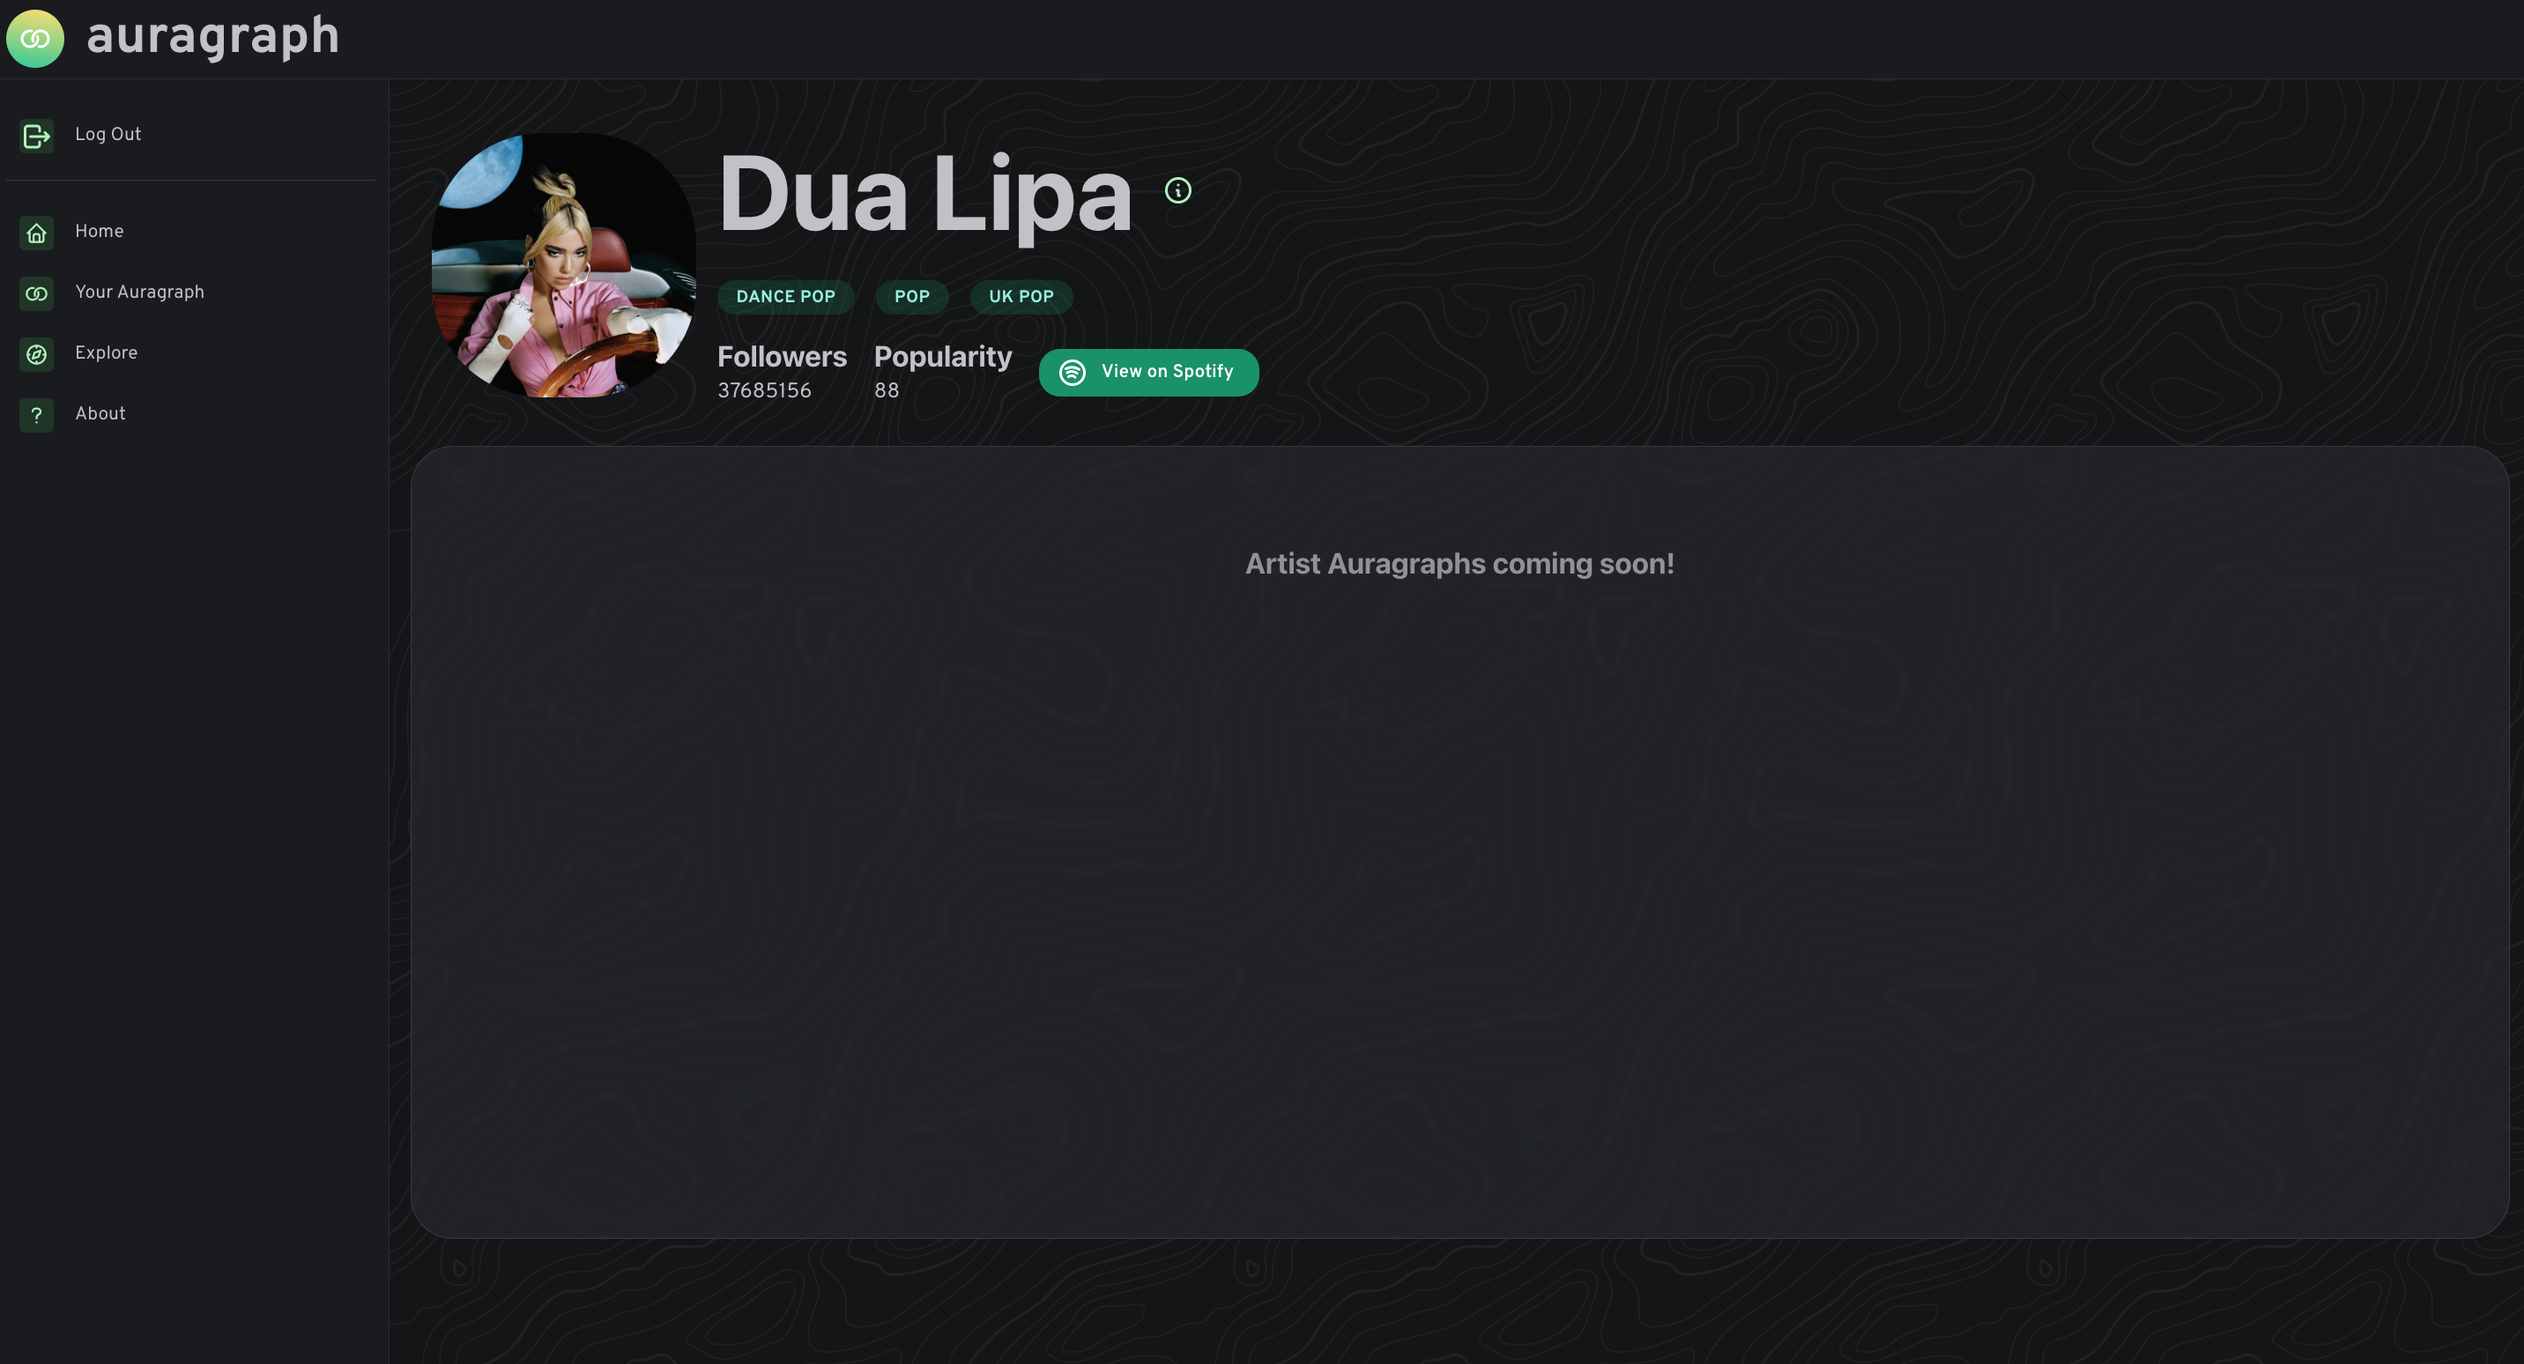
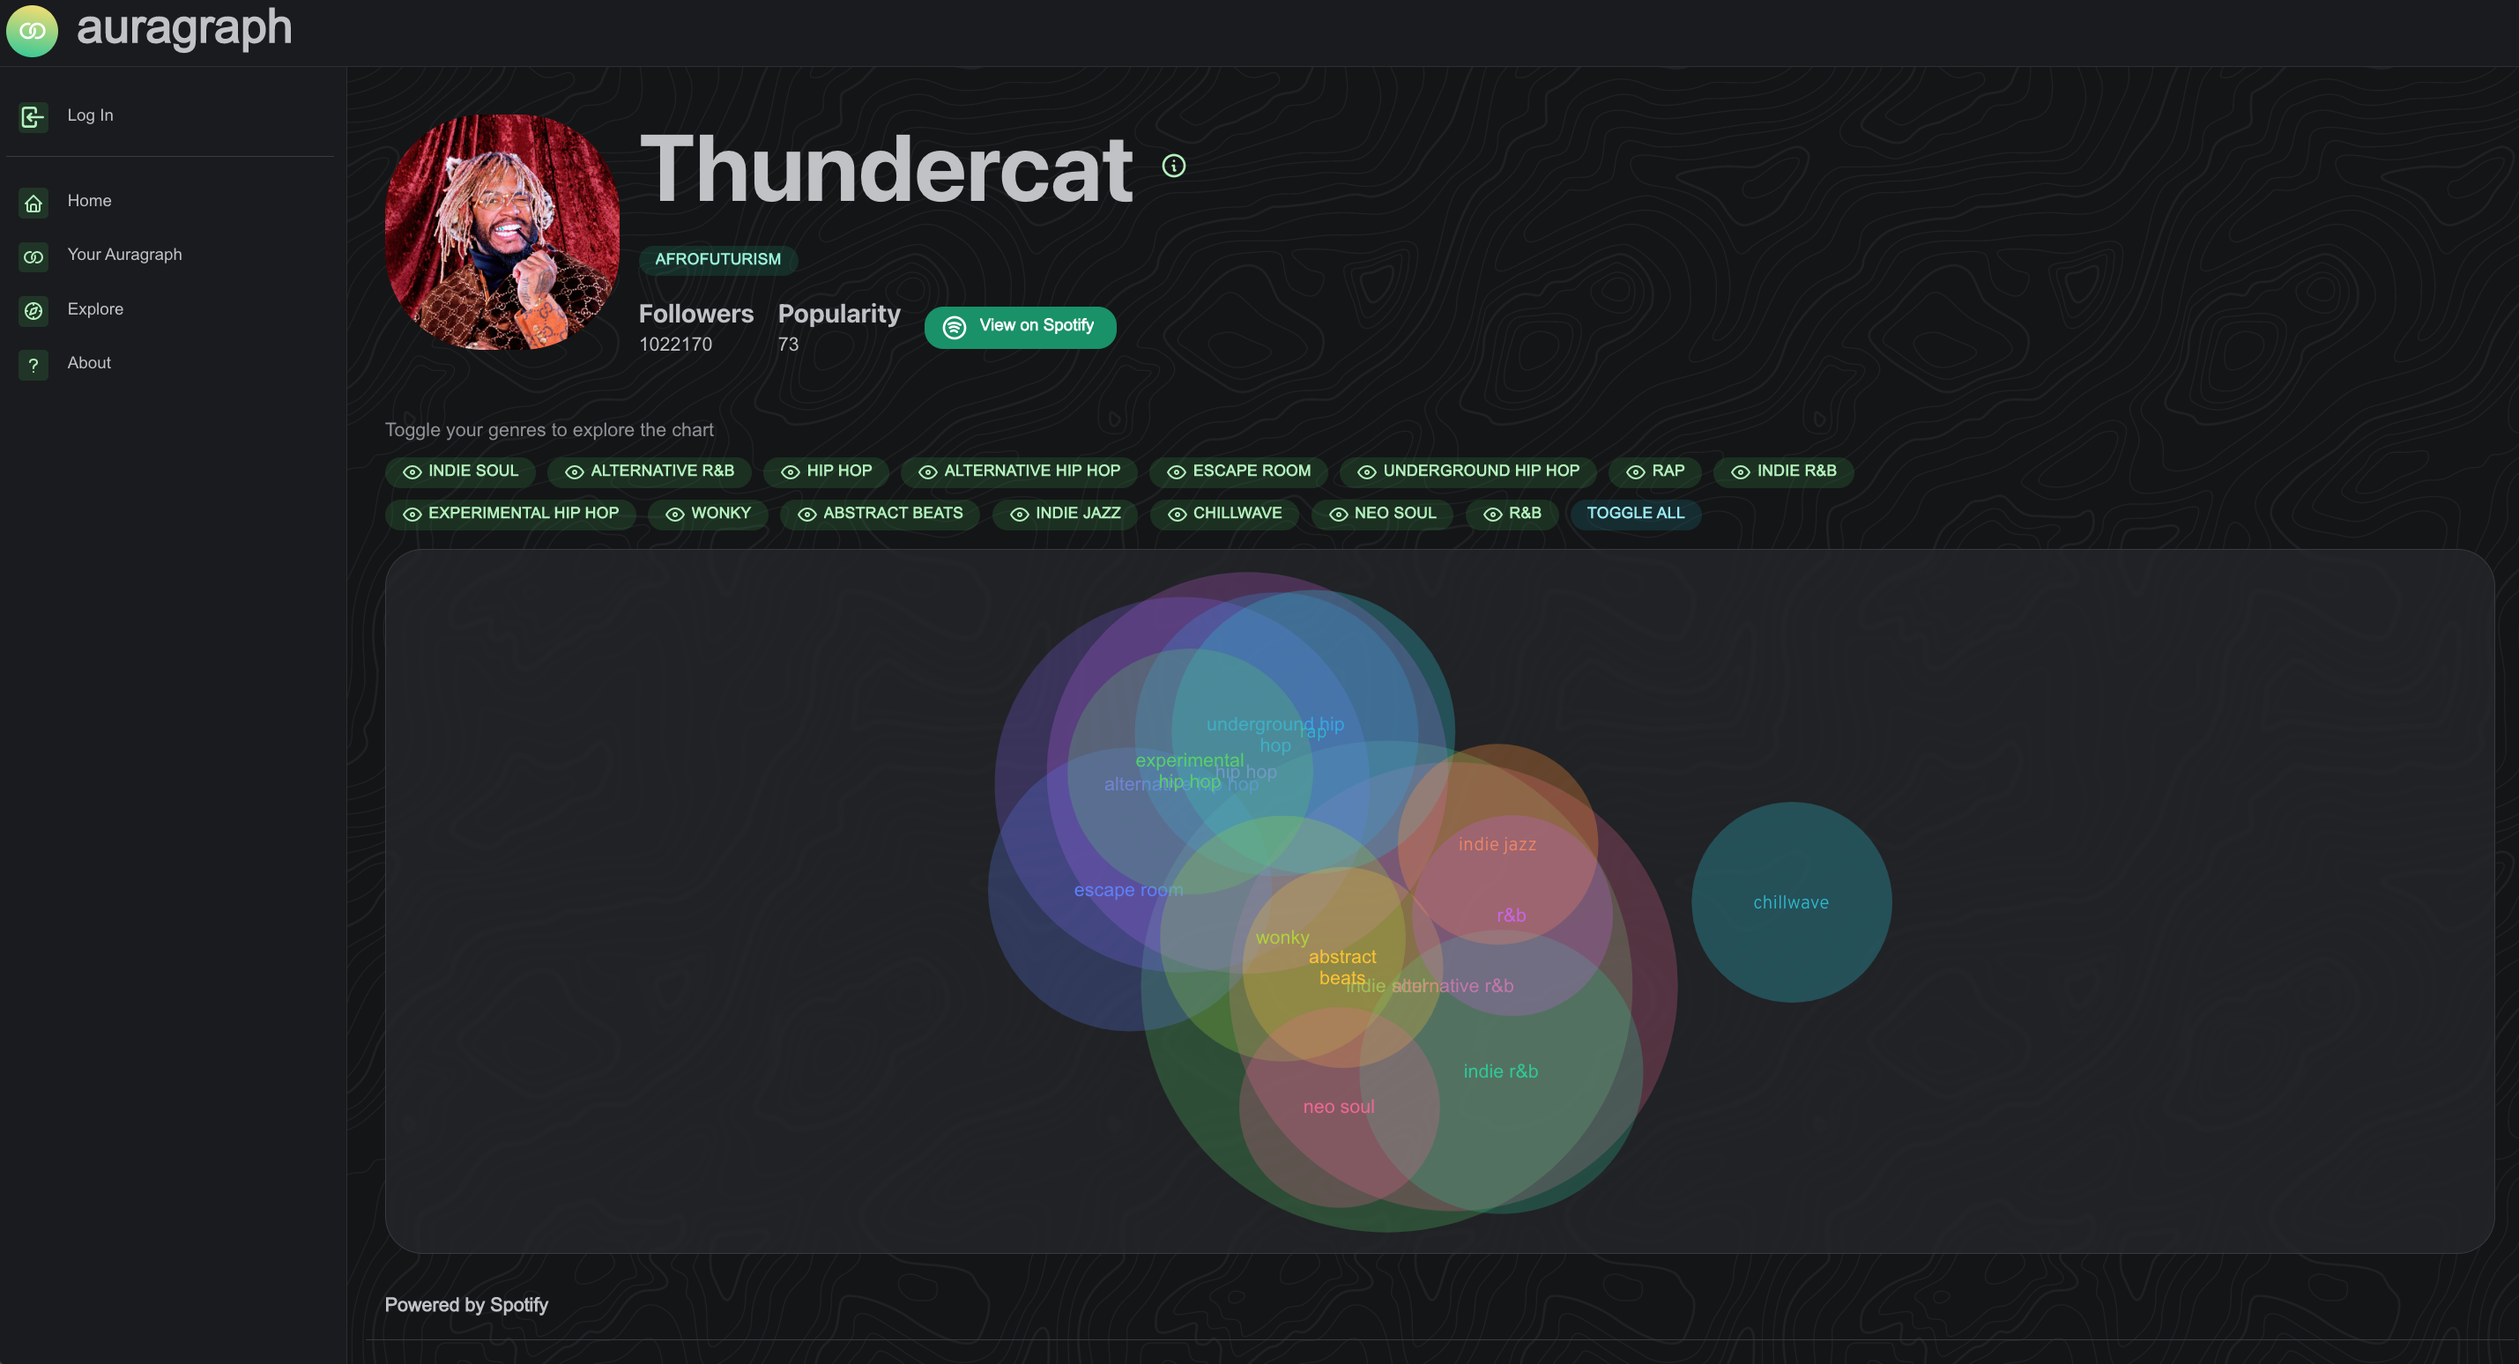
Artist auragraphs added.

diff --git a/pages/artists/[artistID].tsx b/pages/artists/[artistID].tsx
@@ -5,15 +5,33 @@ import getConfig from "next/config";
 import {createServerSupabaseClient} from "@supabase/auth-helpers-nextjs";
 import SpotifyWebApi from "spotify-web-api-node";
 import {
-    ActionIcon, Avatar, Badge, Button, Center, Container,
-    Group, HoverCard, Paper,
+    ActionIcon, Avatar, Badge, Button, Center, Container, Divider,
+    Group, HoverCard, Paper, SimpleGrid,
     Stack,
     Text,
     Title,
     Tooltip, useMantineTheme
 } from "@mantine/core";
-import {IconBrandSpotify, IconInfoCircle} from "@tabler/icons";
-import React from "react";
+import {IconBrandSpotify, IconEye, IconEyeOff, IconInfoCircle} from "@tabler/icons";
+import React, {useEffect, useState} from "react";
+import {useMediaQuery} from "@mantine/hooks";
+import EulerChart from "../../components/EulerChart";
+import ArtistCard from "../../components/ArtistCard";
+
+type ArtistImage = {
+    height: number,
+    width: number,
+    url: string
+}
+
+type Artist = {
+    name: string,
+    id: string,
+    images: ArtistImage[],
+    popularity: number,
+    genres: string[],
+    external_urls: {spotify: string}
+}
 
 export const getServerSideProps = async (context : GetServerSidePropsContext ) => {
     const { serverRuntimeConfig } = getConfig();
@@ -52,17 +70,18 @@ export const getServerSideProps = async (context : GetServerSidePropsContext ) =
 
     const auth = await spotifyApi.clientCredentialsGrant();
     // Save the access token so that it's used in future calls
-    console.log(auth)
     spotifyApi.setAccessToken(auth.body['access_token']);
 
     if (typeof artistID === "string") {
         try {
             const artistData = await spotifyApi.getArtist(artistID);
             const artistTopSongs = await spotifyApi.getArtistTopTracks(artistID, "US");
-            return { props: { artistData, artistTopSongs } }
+            const relatedArtists = await spotifyApi.getArtistRelatedArtists(artistID);
+            console.log(relatedArtists)
+            return { props: { relatedArtists, artistData, artistTopSongs } }
         } catch (e) {
             // Attempt to refresh and save the access token.
-            return { props: { artistData: null, artistTopSongs: null } }
+            return { props: { relatedArtists: null, artistData: null, artistTopSongs: null } }
         }
     }
 
@@ -70,11 +89,148 @@ export const getServerSideProps = async (context : GetServerSidePropsContext ) =
 }
 
 
-const ArtistPage = ( { artistData, artistTopSongs }:{artistData: Response; artistTopSongs: Response;}) => {
+const ArtistPage = ( { relatedArtists, artistData, artistTopSongs }:{relatedArtists: Response; artistData: Response; artistTopSongs: Response;}) => {
     const router = useRouter()
     const { artistID } = router.query
     const artist = JSON.parse(JSON.stringify(artistData.body));
     const theme = useMantineTheme();
+    const preload = false;
+    const [topArtists, setTopArtists] = useState<{ artists: Artist[] } | null>(JSON.parse(JSON.stringify(relatedArtists.body)));
+    const [rawData, setRawData] = useState< {size: number, sets: string[]}[] | null >();
+    // Need to construct genres, will begin as null;
+    const [genres, setGenres] = useState<{genre: string, enabled: boolean}[]>([]);
+    const [currentDataSet, setCurrentDataset] = useState<{size: number, sets: string[]}[]>();
+    const smallScreen = useMediaQuery(`(min-width: ${theme.breakpoints.sm.toString()}px)`);
+    const mediumScreen = useMediaQuery(`(min-width: ${theme.breakpoints.md.toString()}px)`);
+    let artistArray: Artist[];
+
+    // When top artists are loaded, build our dataset
+    useEffect(() => {
+        if (!preload) {
+            console.log('artists set, building rawData')
+            buildDataset();
+        }
+    }, [topArtists]);
+
+    // Set current data and build genres after rawData loads
+    useEffect(() => {
+        console.log('rawData set, building genres')
+        buildGenres()
+        updateDataSet()
+    }, [rawData]);
+
+    // Finally, let's save the built data to the db for next time.
+    // useEffect(() => {
+    //     fetch(`/api/postAura`, {
+    //         method: 'POST',
+    //         body: JSON.stringify({
+    //             aura: rawData,
+    //             id: user.id,
+    //             topArtists: topArtists,
+    //             genres: genres,
+    //         })
+    //     }).then((res) => {
+    //         if ( res.ok ) {
+    //             res.json().then(data => {
+    //                 console.log(data)
+    //             })
+    //         } else {
+    //             console.log("Request failed")
+    //         }
+    //     })
+    // }, [genres]);
+
+    async function buildDataset() {
+        if (topArtists && topArtists.artists) {
+            const artists: Artist[] = topArtists?.artists;
+            let dataSet = await buildGenreSets(artists)
+            dataSet = dataSet.sort((a, b) => b.size - a.size)
+            setRawData(dataSet);
+        }
+    }
+
+    async function buildGenres() {
+        const genres: { genre: string; enabled: boolean }[] = [];
+        let count = 0;
+        rawData?.forEach(item => {
+            if (item.sets.length == 1) {
+                genres.push({genre: item.sets[0], enabled: true})
+                count++;
+            }
+        })
+        setGenres(genres)
+    }
+
+    async function buildGenreSets(artists: Artist[]) {
+        let genres: Set<string> = new Set();
+        let newDataSet: { size: number, sets: string[] }[] = [];
+
+        // Create a set of unique genres
+        artists.forEach(artist => {
+            artist.genres.forEach(genre => {
+                // Stringify to avoid duplicates
+                genres.add(JSON.stringify([genre]));
+                artist.genres.forEach(g2 => {
+                    if (g2 != genre)
+                        genres.add(JSON.stringify([genre, g2]))
+                    //artist.genres.forEach(g3 => genres.add(JSON.stringify([genre, g2, g3])))
+                })
+            })
+        })
+        // Rebuild into proper array with parse
+        let genreArray: string[][] = [];
+        genres.forEach(genre => {
+            genreArray.push(JSON.parse(genre))
+        })
+
+        // Add unique genres to dataset with their correct counts
+        genreArray.forEach(genre => {
+            newDataSet.push({
+                size: artists.filter(artist => genre.every(val => artist.genres.includes(val))).length * 100,
+                sets: genre
+            })
+        })
+
+        newDataSet = newDataSet.filter(item => (item.sets.length > 0 && item.size > 100));
+        return newDataSet;
+    }
+
+    function toggleGenre(genre: string) {
+        console.log(`Toggling: ${genre}`)
+        const tempGenres = genres;
+        const i = tempGenres.findIndex(item => item.genre == genre);
+        tempGenres[i].enabled = !tempGenres[i].enabled;
+        setGenres(tempGenres);
+        updateDataSet();
+    }
+
+    function getCurrentDataSet() {
+        return currentDataSet
+    }
+
+    function updateDataSet() {
+        const disabledGenres = genres.filter(genre => (!genre.enabled));
+        console.log(JSON.stringify(disabledGenres, null, 2))
+        // Filter out items with a disabled genre
+        const updatedDataSet = rawData?.filter(isGenreEnabled)
+        setCurrentDataset(updatedDataSet)
+    }
+
+    function toggleAll(genres: { genre: string; enabled: boolean }[]) {
+        genres.forEach(genre => toggleGenre(genre.genre));
+    }
+
+    function isGenreEnabled(item: {size: number, sets: string[]}) {
+        const disabledGenres = genres.filter(genre => (!genre.enabled));
+        let genreEnabled = true;
+        disabledGenres.forEach(genre => {
+            if (item.sets.includes(genre.genre)) {
+                console.log(`Found a hit on ${genre} and set ${item.sets}`)
+                genreEnabled = false;
+            }
+        })
+        return genreEnabled;
+    }
 
     return (
         <>
@@ -95,13 +251,13 @@ const ArtistPage = ( { artistData, artistTopSongs }:{artistData: Response; artis
                             </ActionIcon>
                         </HoverCard.Target>
                         <HoverCard.Dropdown>
-                            <Title order={4}>About Auragraphs</Title>
+                            <Title order={4}>About Artist Auragraphs</Title>
                             <Text size="sm" mt={'xs'}>
                                 Auragraphs are an attempt to visualize the relationship between your favorite artists
                                 and their music.
                             </Text>
                             <Text size="sm" mt={'xs'}>
-                                Your auragraph is a mapping of your top 20 artists and their genres (according to
+                                An artist auragraph is a mapping of related artists and their genres (according to
                                 spotify).
                             </Text>
 
@@ -125,25 +281,59 @@ const ArtistPage = ( { artistData, artistTopSongs }:{artistData: Response; artis
                 </Group>
             </Stack>
         </Group>
-        <Paper
-            id={"venn"}
-            radius={"xl"}
-            p={'xl'}
-            withBorder
-            sx={(theme) => ({
-                height: 600,
-                marginTop: "12px",
-                backgroundColor: theme.fn.rgba(theme.colors.dark[4], 0.35),
-                backdropFilter: "blur( 2px )",
-            })}
-        >
-            <Center py={'xl'}>
-                <Container my={'xl'}>
-                    <Title order={3} color={'dimmed'}>Artist Auragraphs coming soon!</Title>
-                </Container>
-            </Center>
-        </Paper>
-    </>
+        <Paper p={'md'} my={'md'} sx={(theme) => ({
+                backgroundColor: "transparent",
+            })}>
+                <Text color={'dimmed'} mb={'xs'}> Toggle genres to
+                    explore the chart </Text>
+                <Group spacing={"xs"} sx={{width: "80%"}} mb={'md'}>
+                    {genres ? genres.map(genre => (
+                            <Badge key={genre.genre}
+                                   leftSection={<Center>{genre.enabled ? <IconEye size={18}/> :
+                                       <IconEyeOff size={18}/>}</Center>}
+                                   color={genre.enabled ? 'green' : 'dark'}
+                                   radius={'xl'}
+                                   size={mediumScreen ? 'lg' : 'sm'}
+                                   sx={(theme) => ({
+                                       cursor: "pointer",
+                                       '&:hover': {
+                                           backgroundColor: theme.colors.green[2],
+                                           color: theme.colors.dark[3]
+                                       }
+                                   })}
+                                   onClick={() => toggleGenre(genre.genre)}>{genre.genre}</Badge>
+                        ))
+                        : ''}
+                    <Badge
+                        color='cyan'
+                        radius={'xl'}
+                        size={mediumScreen ? 'lg' : 'sm'}
+                        sx={(theme) => ({
+                            cursor: "pointer",
+                            '&:hover': {
+                                backgroundColor: theme.colors.cyan[2],
+                                color: theme.colors.dark[3]
+                            }
+                        })}
+                        onClick={() => toggleAll(genres)}>Toggle All</Badge>
+                </Group>
+                {currentDataSet ? <EulerChart data={currentDataSet}/> : ''}
+            </Paper>
+            <Text weight={700} size={'md'} mx={"md"} mb={"md"}>Powered by Spotify</Text>
+            <Divider my={"md"}></Divider>
+            <Title order={2}>{`${artist.name}'s related artists`}</Title>
+            <Text color={'dimmed'} mb={'md'}>{`The artists that makeup
+                ${artist.name}'s auragraph`}</Text>
+            <SimpleGrid cols={3} breakpoints={[
+                {maxWidth: 2000, cols: 2, spacing: 'sm'},
+                {maxWidth: 1000, cols: 1, spacing: 'sm'},
+            ]}>
+                {topArtists ? topArtists.artists.map(artist => (
+                    <ArtistCard key={artist.id} artist={artist} genres={genres}/>
+                )) : <></> }
+            </SimpleGrid>
+
+        </>
     );
 }
 

diff --git a/components/ArtistCard.tsx b/components/ArtistCard.tsx
@@ -61,7 +61,7 @@ function ArtistCard( { artist, genres }: { artist: Artist; genres: {genre: strin
               shadow={hovered ? "xl" : "md"}
               p={"lg"}
               component="a"
-              href={`artists/${artist.id}`}
+              href={`${window.location.origin}/artists/${artist.id}`}
               sx={(theme) => ({
                   backgroundColor: theme.fn.rgba(theme.colors.dark[7], 0.65),
                   //backdropFilter: "blur( 2px )",
@@ -90,7 +90,7 @@ function ArtistCard( { artist, genres }: { artist: Artist; genres: {genre: strin
                                 ))}
                             </Group>
                             <Group position={'apart'}>
-                                <Button component={'a'} href={`artists/${artist.id}`} color={'cyan'} variant={'light'} radius={'lg'} leftIcon={<IconCirclesRelation size={18}/>}>Artist Page</Button>
+                                <Button component={'a'} href={`${window.location.origin}/artists/${artist.id}`} color={'cyan'} variant={'light'} radius={'lg'} leftIcon={<IconCirclesRelation size={18}/>}>Artist Page</Button>
                                 <ActionIcon component={'a'} href={artist.external_urls.spotify} color={'green'} variant={'light'} size={'xl'} radius={'xl'}><IconBrandSpotify/></ActionIcon>
                             </Group>
                         </Stack>
